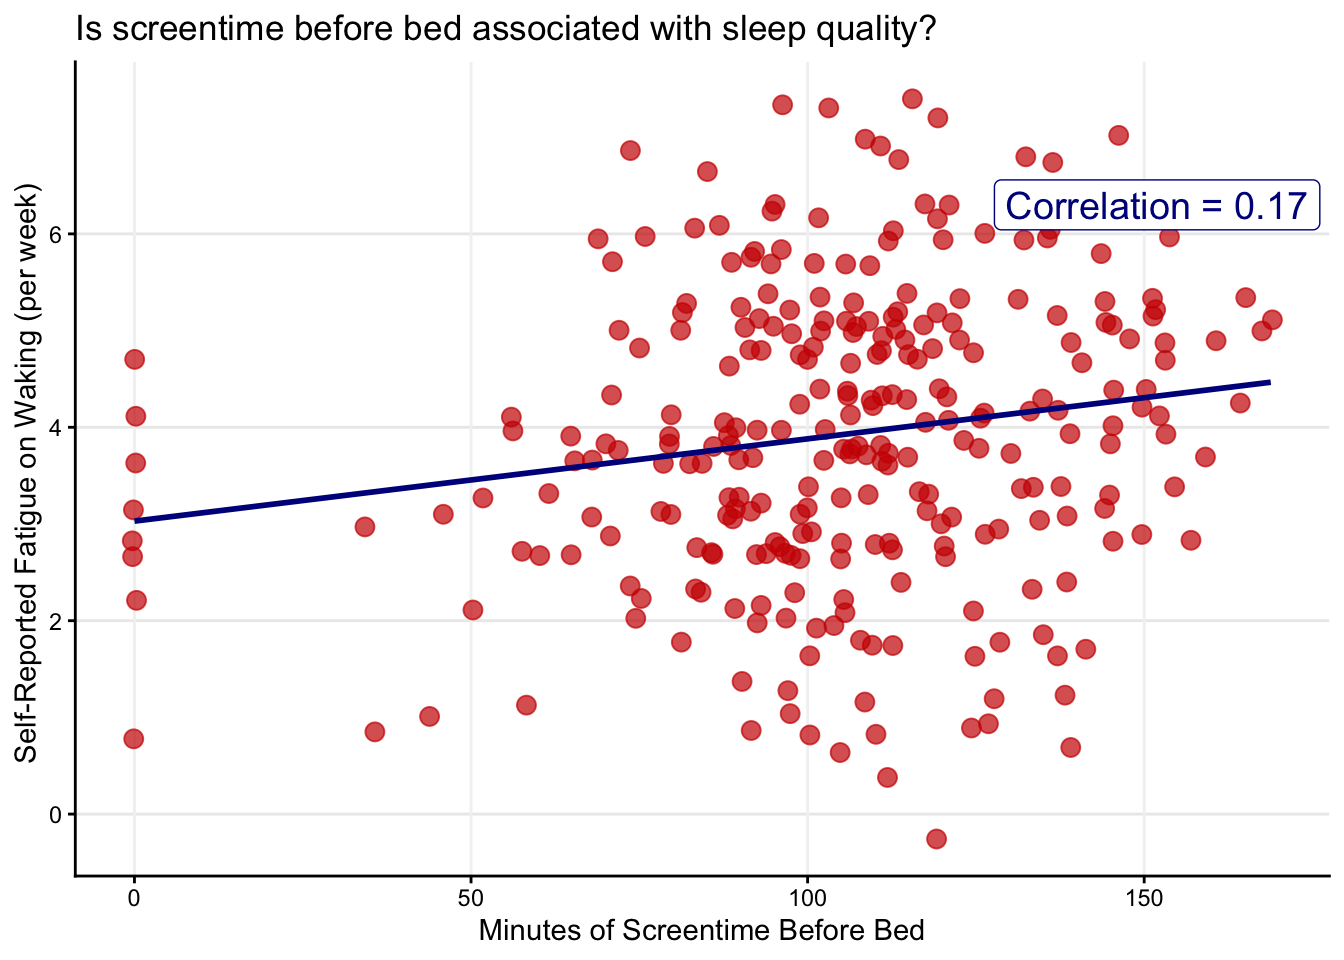
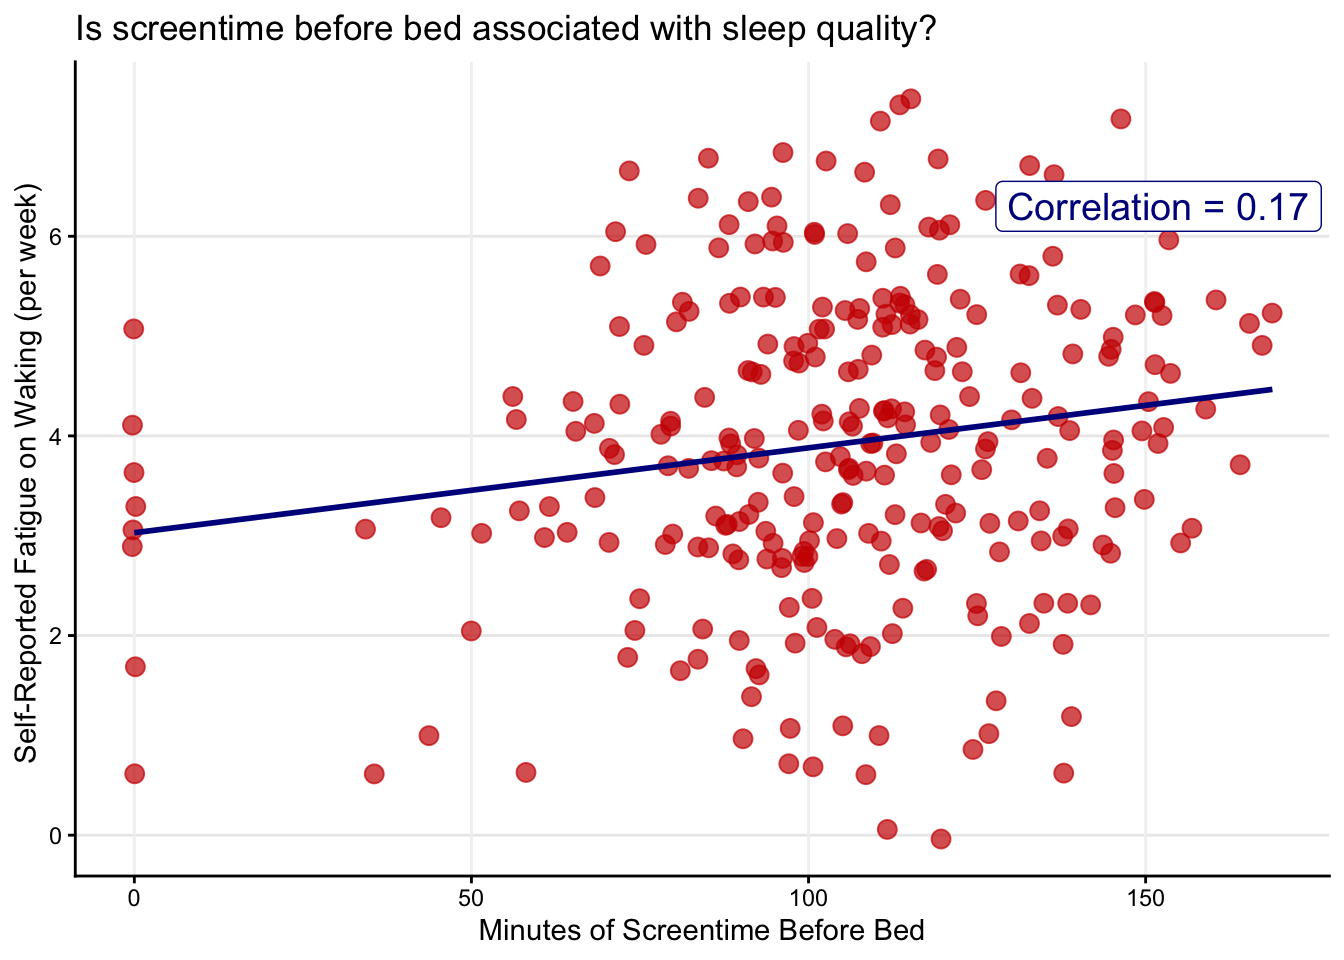
update tuth - F26

diff --git a/Lab_Example_TEMPLATE.html b/Lab_Example_TEMPLATE.html
@@ -7,9 +7,9 @@
 <meta name="viewport" content="width=device-width, initial-scale=1.0, user-scalable=yes">
 
 <meta name="author" content="PSY150">
-<meta name="dcterms.date" content="2026-09-23">
+<meta name="dcterms.date" content="2026-09-24">
 
-<title>Step-1 of Project Analyses - Exploration</title>
+<title>LAB 3: Starter Code Example for Project Analyses (Assignment 2)</title>
 <style>
 code{white-space: pre-wrap;}
 span.smallcaps{font-variant: small-caps;}
@@ -81,8 +81,8 @@ pre > code.sourceCode > span > a:first-child::before { text-decoration: underlin
 
 <header id="title-block-header" class="quarto-title-block default">
 <div class="quarto-title">
-<h1 class="title">Step-1 of Project Analyses - Exploration</h1>
-<p class="subtitle lead">Example - Screen Use &amp; Sleep Quality</p>
+<h1 class="title">LAB 3: Starter Code Example for Project Analyses (Assignment 2)</h1>
+<p class="subtitle lead">Data Exploration - Screen Use &amp; Sleep Quality</p>
 </div>
 
 
@@ -99,7 +99,7 @@ pre > code.sourceCode > span > a:first-child::before { text-decoration: underlin
     <div>
     <div class="quarto-title-meta-heading">Published</div>
     <div class="quarto-title-meta-contents">
-      <p class="date">September 23, 2026</p>
+      <p class="date">September 24, 2026</p>
     </div>
   </div>
   
